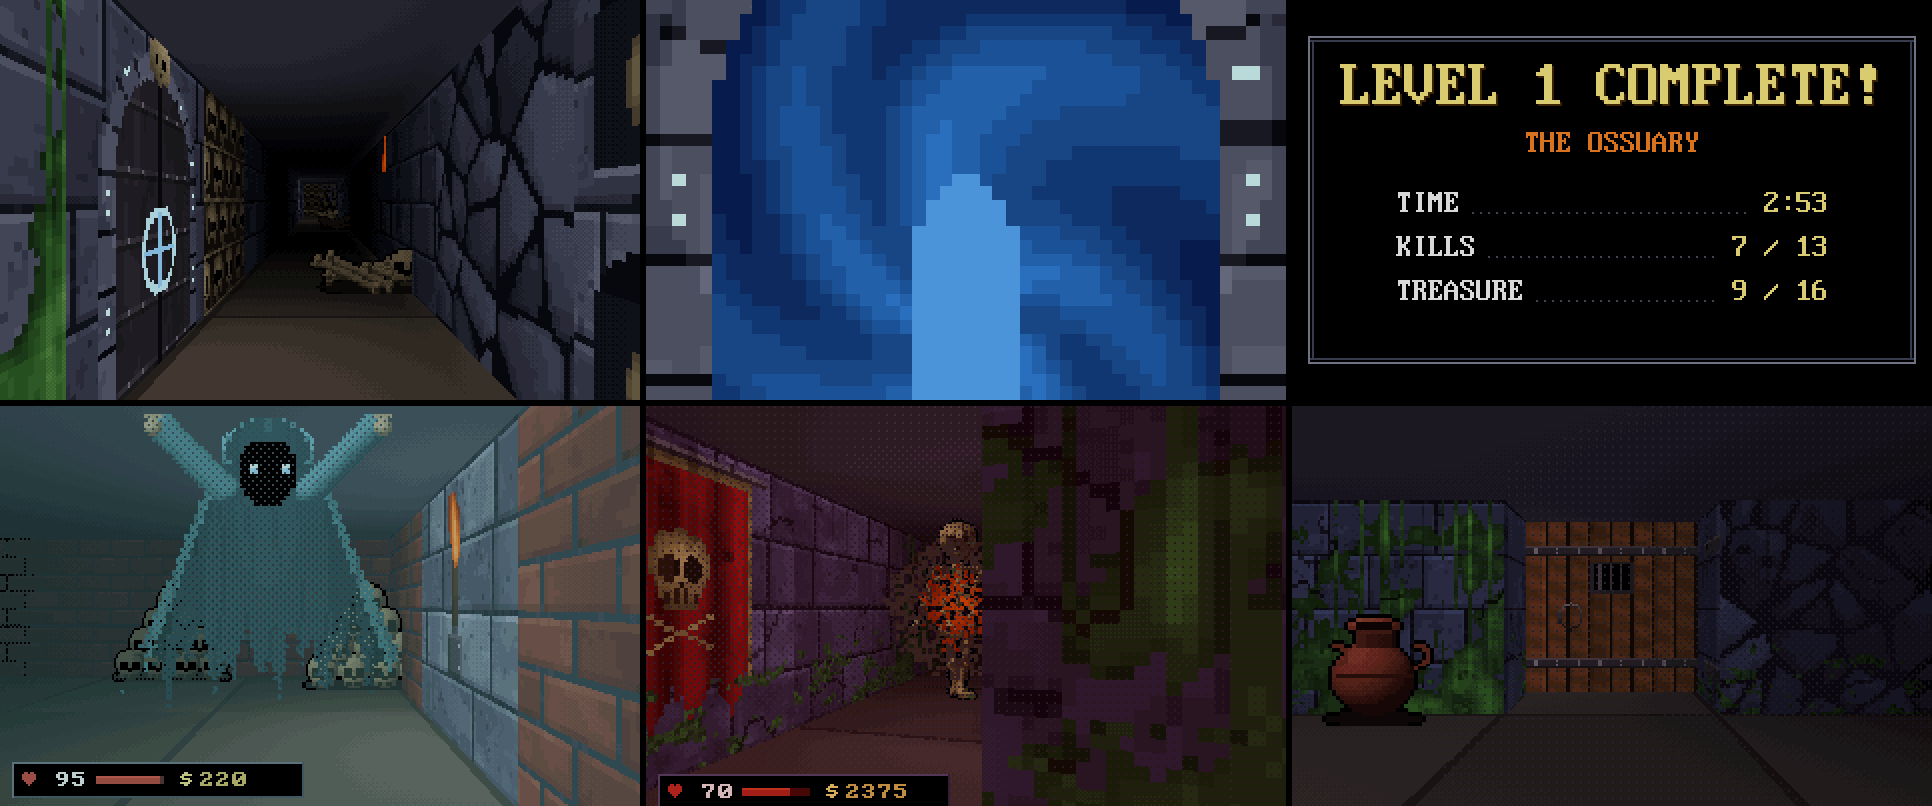
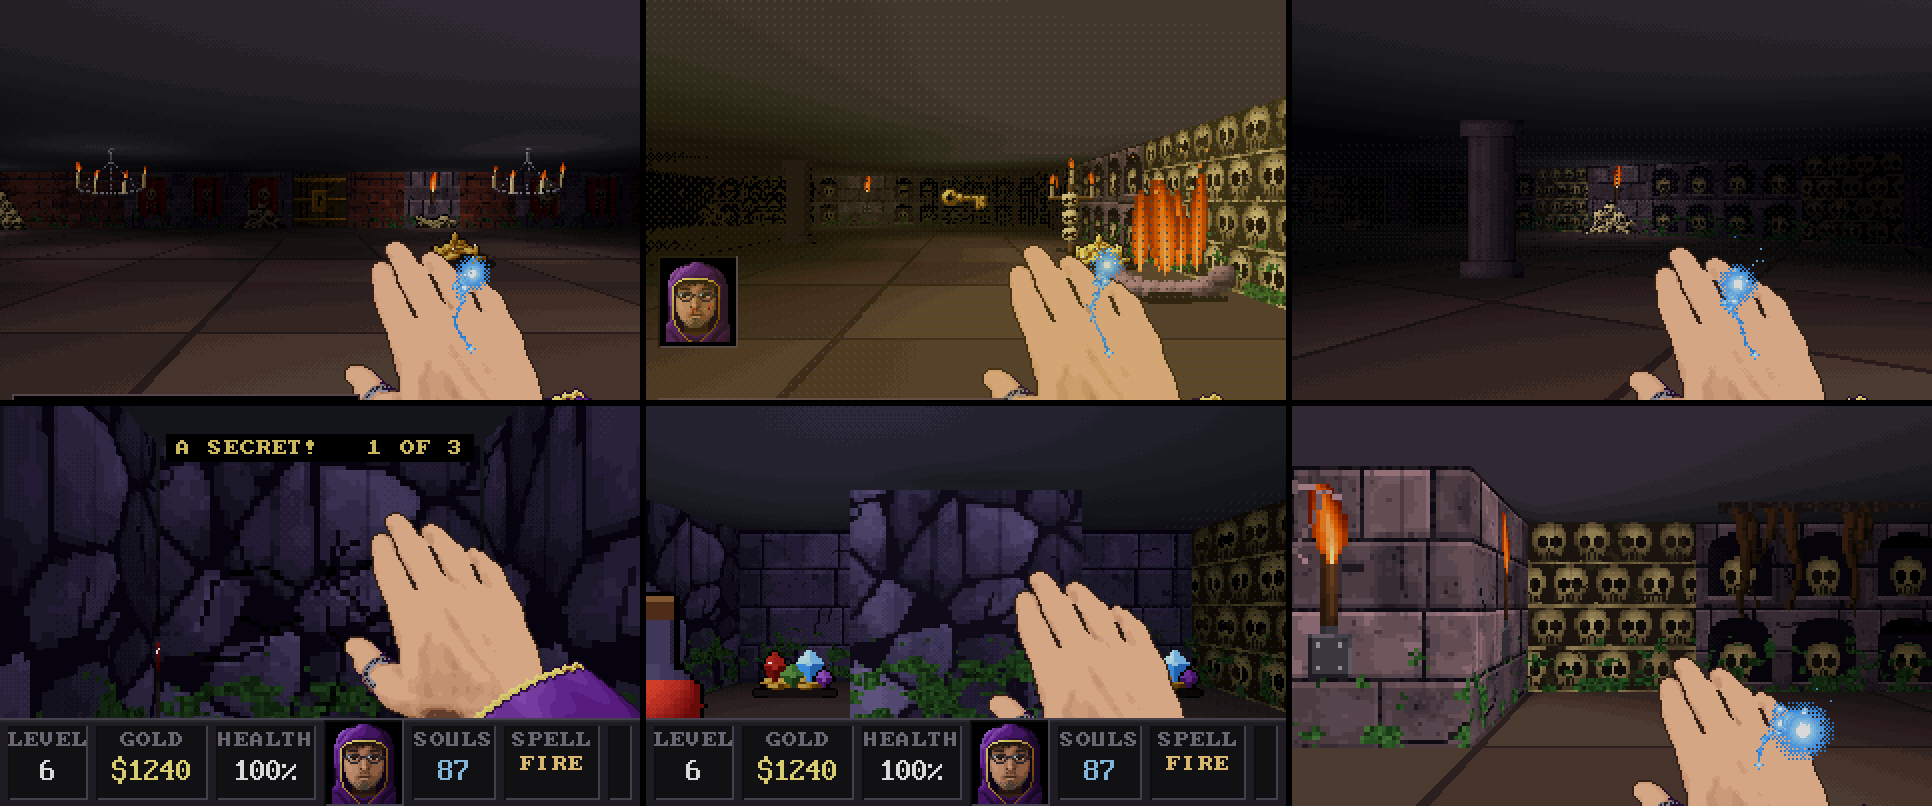
Release 1.0.0b2: the wider crypt, secrets, the wisp and save graves
The page and release notes describe the new crypt, the secrets, the
will-o'-wisp and the graves at Esc (the question there now offers all
five answers, as the game does). The beta status says which of it has
been tested by hand and which only by the harness and under Wine. The
crypt preview shows the new halls, a secret wall and its closet, and
the wisp.

Claude-Session: https://claude.ai/code/session_01SYqhpdRugsMv7dgewzRu99

diff --git a/site/index.html b/site/index.html
@@ -220,6 +220,7 @@
   .quit button:focus-visible { outline: 2px solid var(--gold); outline-offset: 0; }
   @media (max-width: 560px) { .quit button { font-size: 16px; padding: 8px 26px; } }
   .quit .q-note { font-family: var(--font-bios); font-size: 16px; color: var(--gold); min-height: 24px; letter-spacing: .02em; }
+  .quit .q-rule { width: 70%; height: 0; margin: 6px 0; border-top: 2px solid var(--stone-mid); }
   @media (prefers-reduced-motion: no-preference) {
     .quit button[aria-pressed="true"]::before, .quit button[aria-pressed="true"]::after { animation: flicker .2s steps(1) infinite; }
   }
@@ -308,7 +309,7 @@ C:\&gt;<span id="cmd">HAUNTED.EXE</span><span class="cursor"></span></pre>
         <img src="img/catacomb_fight.png" width="320" height="200" alt="CATACOMB: a fireball strikes a shield-bearing skeleton in a torch-lit hall while a hooded wraith looms to the right; the caster's hand is raised in the foreground beside a pile of skulls">
         <h3>CATACOMB</h3>
         <p class="spec">Mode 13h, 320&times;200, 256 colours</p>
-        <p>A Catacomb 3-D style crawl through crypts generated for each level. The caster buys from the merchant, a cat on a treasure chest, then fights skeletons, shield-bearers, wall skulls, spiders, bats and wraiths with nine attack spells and nine runes, opening colour-coded vaults on the way to a rune-sealed exit. Every level is older and harder than the last.</p>
+        <p>A Catacomb 3-D style crawl through crypts generated for each level: halls two and three cells wide, big chambers and colonnades, hung with chains, hooks, gibbet cages and chandeliers, with graveyards, fire pits and lit totems. The caster buys from the merchant, a cat on a treasure chest, then fights skeletons, shield-bearers, wall skulls, spiders, bats and wraiths with nine attack spells and nine runes, opening colour-coded vaults and hidden walls on the way to a rune-sealed exit. Every level is older and harder than the last.</p>
       </div>
     </div>
   </section>
@@ -324,13 +325,15 @@ C:\&gt;<span id="cmd">HAUNTED.EXE</span><span class="cursor"></span></pre>
           <tr><td class="keys"><kbd>MOUSE</kbd></td><td>Turn, the way Doom does. There is no looking up or down.</td></tr>
           <tr><td class="keys"><kbd>CLICK</kbd><kbd>CTRL</kbd></td><td>Cast the spell in hand where you look. Lightning and Soul Drain catch the nearest creature near the middle of the view.</td></tr>
           <tr><td class="keys"><kbd>1</kbd>&ndash;<kbd>9</kbd></td><td>Choose a spell you own: Fire Bolt, Frost Shard, Chain Lightning, Bone Spear, Soul Drain, Hellfire, Seeker Wisps, Rapid Sparks, BFS9000. The wheel works too.</td></tr>
-          <tr><td class="keys"><kbd>E</kbd><kbd>SPACE</kbd></td><td>Open the door ahead, unlock a vault with its key, step through the exit runes, or buy from the merchant.</td></tr>
+          <tr><td class="keys"><kbd>E</kbd><kbd>SPACE</kbd></td><td>Open the door ahead, unlock a vault with its key, press a cracked wall, step through the exit runes, or buy from the merchant.</td></tr>
           <tr><td class="keys"><kbd>TAB</kbd></td><td>Your wardrobe and spellbook. W and S pick a slot, A and D change what you wear there.</td></tr>
           <tr><td class="keys"><kbd>ESC</kbd></td><td>Ask to leave. The crypt will argue.</td></tr>
         </tbody>
       </table>
     </div>
     <p>Your defensive runes still fire on their own, as quickly and as fallibly as they do for the autopilot. Everything you buy stays in your wardrobe, and the Wolfenstein status bar stays up while you play.</p>
+    <p><strong>Secrets.</strong> Every level hides one to three walls that give: one on the first two levels, two from level 3 and three from level 6. They look like plain stone until you are a step or two away, when cracks show in them. Press <kbd>E</kbd> and the wall grinds back into a hidden closet. Inside is treasure and often a potion, never a key, and none of it counts towards the level's treasure, so whatever you find is extra. The tally at the end of the level counts the secrets you found.</p>
+    <p><strong>The will-o'-wisp.</strong> Take ten souls on a level and one kindles on the back of your hand. Its body leans the way out, along the route you would walk, held to your hand by its tail, and it lights the crypt a few steps around you. If the exit is in a locked vault, it leads you to the key first. It goes out when you leave the level.</p>
 
     <div class="quit" id="quit" role="group" aria-labelledby="q-title">
       <p class="q-title" id="q-title">LEAVE THE CRYPT?</p>
@@ -339,6 +342,9 @@ C:\&gt;<span id="cmd">HAUNTED.EXE</span><span class="cursor"></span></pre>
         <button type="button" id="q-flee" aria-pressed="false">FLEE TO THE SURFACE</button>
         <button type="button" id="q-stay" aria-pressed="true">STAY IN THE DARK</button>
         <button type="button" id="q-sleep" aria-pressed="false">SLEEPWALK</button>
+        <span class="q-rule" aria-hidden="true"></span>
+        <button type="button" id="q-carve" aria-pressed="false">CARVE A GRAVESTONE</button>
+        <button type="button" id="q-rise" aria-pressed="false">RISE FROM A GRAVE</button>
       </div>
       <p class="q-note" id="q-note">BACK TO THE CRYPT</p>
     </div>
@@ -346,6 +352,8 @@ C:\&gt;<span id="cmd">HAUNTED.EXE</span><span class="cursor"></span></pre>
       <li><strong>Flee to the surface</strong> ends the screensaver and saves your level, health, gold, souls and gear. Next time you start at the beginning of that level, and the next session starts from it whether you play or not.</li>
       <li><strong>Stay in the dark</strong> closes the question. It's the default, so a stray Enter keeps you playing.</li>
       <li><strong>Sleepwalk</strong> hands the crypt back to the autopilot, which walks on from where you stood.</li>
+      <li><strong>Carve a gravestone</strong> saves the run in one of three graves. Carving over a used grave asks twice.</li>
+      <li><strong>Rise from a grave</strong> loads one, from the beginning of its level, and the controls stay yours.</li>
     </ul>
   </section>
 
@@ -360,8 +368,8 @@ C:\&gt;<span id="cmd">HAUNTED.EXE</span><span class="cursor"></span></pre>
       <figcaption>The merchant, a wall skull, a spider, the BFS9000 and Hellfire.</figcaption>
     </figure>
     <figure>
-      <img src="img/preview_catacomb_crypt.png" loading="lazy" width="1932" height="806" alt="Six frames from CATACOMB: the rune-sealed exit, the exit opened, the LEVEL 1 COMPLETE tally, a wraith rearing back, a violet deeper corridor and a mossy room">
-      <figcaption>The exit, the tally, a wraith and the deeper levels.</figcaption>
+      <img src="img/preview_catacomb_crypt.png" loading="lazy" width="1932" height="806" alt="Six frames from CATACOMB: a big chamber hung with candle chandeliers and banners; a hall with a fire pit beside a skull wall and a key glinting in the distance; a wide hall with a stone pillar; the hand pressing a cracked wall with A SECRET! 1 OF 3 above it; the closet behind it with gems and a potion; and the will-o'-wisp glowing blue on the back of the hand in an ossuary hall">
+      <figcaption>Big chambers and wide halls, a secret wall and its closet, and the wisp.</figcaption>
     </figure>
     <figure>
       <img src="img/preview_haunt_text.png" loading="lazy" width="2898" height="806" alt="Eight frames of haunted DOS programs: EDIT, DEFRAG, the BBS, the virus scan, MSD, SETUP, QBasic and the file manager">
@@ -395,7 +403,7 @@ C:\&gt;<span id="cmd">HAUNTED.EXE</span><span class="cursor"></span></pre>
 
   <section aria-labelledby="source">
     <h2 id="source">Built in the open</h2>
-    <p>Every release is built from this repository by GitHub Actions. The MinGW-w64 cross-compiler builds the program, a headless harness renders both scenes and plays a scripted session, and the files go up with their SHA-256 checksums. It's about 15,000 lines of C with no dependencies beyond the standard Windows DLLs.</p>
+    <p>Every release is built from this repository by GitHub Actions. The MinGW-w64 cross-compiler builds the program, a headless harness renders both scenes and plays a scripted session, and the files go up with their SHA-256 checksums. It's about 17,000 lines of C with no dependencies beyond the standard Windows DLLs.</p>
 <pre class="code">sudo apt install gcc-mingw-w64-x86-64 zlib1g-dev
 make zip      # dist/HAUNTED.scr, dist/HAUNTED.EXE and the zip
 make smoke    # both scenes and a scripted player in the test harness</pre>
@@ -409,13 +417,14 @@ make smoke    # both scenes and a scripted player in the test harness</pre>
 
   <section aria-labelledby="beta">
     <h2 id="beta">Beta status</h2>
-    <p>This is the first public build. It has been played by hand on the author's own Windows PC in a few different configurations, on top of the automated tests. Here is what has been tested, and how.</p>
+    <p>This is the second beta. The first was played by hand on the author's own Windows PC in a few different configurations, on top of the automated tests; this one adds a wider crypt, secrets, the will-o'-wisp and three save graves, which so far have been tested only by the harness and under Wine. Here is what has been tested, and how.</p>
     <div class="scroll">
       <table>
         <thead><tr><th>Area</th><th>Evidence</th><th>Confidence</th></tr></thead>
         <tbody>
           <tr><td>Playing</td><td>Scripted sessions in the harness: taking over from both scenes, shopping, every spell, the wardrobe, the question at Esc, dying, the exit, saving and loading. 170 seconds under AddressSanitizer and UBSan, clean.</td><td><span class="tag ok">HIGH</span></td></tr>
-          <tr><td>The autopilot</td><td>Six 50-minute simulations: every run reached level 8 to 10 and left every level by its exit.</td><td><span class="tag ok">HIGH</span></td></tr>
+          <tr><td>The new crypt</td><td>Every lane of every generated level checked for reach. A test player that only walks where the wisp leans cleared 24 of 24 levels, fetching vault keys where the exit needed them. Pressing a secret wall, walking into its closet and taking the loot, carving and rising from graves (also under Wine, into the registry). About 30 minutes under AddressSanitizer and UBSan, clean. Not yet played by hand on Windows.</td><td><span class="tag mid">MEDIUM</span></td></tr>
+          <tr><td>The autopilot</td><td>Eight 50-minute simulations in the wider crypt: runs reached level 6 to 9, left every level by its exit and found two to six secrets. It dies a little more often than in the narrower crypt of the first beta: four runs never died, two died once, one twice and one five times.</td><td><span class="tag ok">HIGH</span></td></tr>
           <tr><td>Input on Windows</td><td>Played by hand on real Windows: holding H, the keys, raw mouse turning and keeping the mouse inside the window all work flawlessly. Also driven under Wine with real key presses, including saving to the registry and loading it back.</td><td><span class="tag ok">HIGH</span></td></tr>
           <tr><td>Mouse feel</td><td>Tried by hand: the fixed speed of 0.0015 radians per count feels spot-on.</td><td><span class="tag ok">HIGH</span></td></tr>
           <tr><td>Sound</td><td>Heard through real speakers, where the music and effects play as intended. Also analysed offline for clipping and levels.</td><td><span class="tag ok">HIGH</span></td></tr>
@@ -472,9 +481,10 @@ make smoke    # both scenes and a scripted player in the test harness</pre>
     "REAL WIZARDS DO NOT HAVE MEETINGS.",
     "87 SOULS. SO CLOSE TO SOMETHING WONDERFUL."
   ];
-  var NOTES = { "q-flee": "YOUR LEVEL, GOLD AND GEAR ARE KEPT", "q-stay": "BACK TO THE CRYPT", "q-sleep": "THE AUTOPILOT WALKS ON WITHOUT YOU" };
+  var NOTES = { "q-flee": "YOUR LEVEL, GOLD AND GEAR ARE KEPT", "q-stay": "BACK TO THE CRYPT", "q-sleep": "THE AUTOPILOT WALKS ON WITHOUT YOU",
+                "q-carve": "THREE GRAVES. CHOOSE ONE.", "q-rise": "WHICH GRAVE WILL YOU LEAVE?" };
   var line = document.getElementById("q-line"), note = document.getElementById("q-note");
-  var opts = ["q-flee", "q-stay", "q-sleep"].map(function (id) { return document.getElementById(id); });
+  var opts = ["q-flee", "q-stay", "q-sleep", "q-carve", "q-rise"].map(function (id) { return document.getElementById(id); });
   var li = Math.floor(Math.random() * LINES.length), walker = null;
   function show() { line.textContent = LINES[li % LINES.length]; }
   function select(b) {
@@ -497,6 +507,10 @@ make smoke    # both scenes and a scripted player in the test harness</pre>
         document.getElementById("download").scrollIntoView({ behavior: still ? "auto" : "smooth", block: "center" });
       } else if (b.id === "q-stay") {
         li++; show();
+      } else if (b.id === "q-carve") {
+        line.textContent = "HERE LIES A CASTER. NOT FOR LONG.";
+      } else if (b.id === "q-rise") {
+        line.textContent = "THE EARTH GIVES YOU BACK. IT ALWAYS DOES.";
       } else {
         li++; show();
         if (!still) walker = setInterval(function () { li++; show(); }, 4200);

diff --git a/README.md b/README.md
@@ -35,7 +35,7 @@ Two scenes are included. They alternate every few minutes (configurable) with a 
 | **CATACOMB** | mode 13h, 320x200, 256 colours | A Catacomb 3-D / Wolfenstein 3-D style crypt crawl on autopilot. Before each level the caster visits the merchant, the owner's cat, draped over a treasure chest, purring, and buys one of three wares with the gold it carries (see below). Each level is generated anew: main halls two and three cells wide, big chambers, colonnades and narrow side passages, with skull walls, niches, banners, moss and sliding doors, walked with quick 90-degree turns. The crypt is dressed: chains and meat hooks swaying from the ceiling, gibbet cages (some still occupied), candle chandeliers, roots and cobweb curtains, bone piles, graveyards of tombstones, fire pits and lit totems. Every level hides one to three secrets behind cracked walls (see below). Locked vaults are colour-coded (gold from level 1, silver from 3, crimson from 5), each with its own key and a richer hoard, and the deeper ones are guarded. The autopilot remembers treasure it has seen and goes back for it, and leaves through a rune-sealed exit for a Wolfenstein-style tally. Skeletons throw bones; from level 2 skulls set in the walls you walk towards scream and gather a fireball for three seconds; from level 3 shield-bearing skeletons close in with swords; from level 4 spiders wait in corner webs, only their red eyes showing, and their bite poisons and slows. Bats bite, and wraiths loom and flee. Every level is older and harder than the one before, though each death on a level makes its creatures hit a little softer on the next try (by up to 45%, until it is cleared). Your face, Wolfenstein-style, pops up when you are hurt. Hold H for three seconds to play it yourself (see below). |
 
 ![CATACOMB: the merchant, wall skulls, spiders, shields and spells](docs/preview_catacomb.png)
-![CATACOMB: the exit, the tally, a wraith and the deeper levels](docs/preview_catacomb_crypt.png)
+![CATACOMB: big chambers and wide halls, a secret wall and its closet, and the wisp](docs/preview_catacomb_crypt.png)
 ![CATACOMB played by hand: holding H, the controls, shopping, casting, the wardrobe and the question at Esc](docs/preview_catacomb_play.png)
 ![HAUNT.EXE: the jack-o'-lantern and the skull](docs/preview_haunt_art.png)
 ![HAUNT.EXE: the haunted programs](docs/preview_haunt_text.png)

diff --git a/.github/release-notes.md b/.github/release-notes.md
@@ -1,6 +1,15 @@
-The first public build of **HAUNTED.EXE**, a Halloween screensaver for Windows in real VGA modes: a possessed 486 PC (HAUNT.EXE) and a Wolfenstein-style crypt crawl (CATACOMB) that you can take over and play by holding **H** for three seconds.
+The second beta of **HAUNTED.EXE**, a Halloween screensaver for Windows in real VGA modes: a possessed 486 PC (HAUNT.EXE) and a Wolfenstein-style crypt crawl (CATACOMB) that you can take over and play by holding **H** for three seconds.
 
-This is a beta. Besides the automated tests and runs under Wine, it has been played by hand on the author's own Windows PC in a few different configurations; other PCs and graphics cards haven't been tried yet. If something goes wrong on your machine, please [open an issue](https://github.com/ASPDesignLabs/HAUNTED.EXE/issues) with your Windows version and graphics card.
+### New in this beta
+
+- **A wider crypt.** Main halls two and three cells wide, big chambers and colonnades, with a few narrow side passages.
+- **Set dressing.** Swaying chains and meat hooks, gibbet cages, candle chandeliers, roots and cobweb curtains, graveyards of tombstones, and more light: fire pits, lit totems and a light in every room.
+- **Secrets.** One to three walls a level give when pressed (E or Space). Their cracks show only when you are close. Behind each is a closet of treasure and often a potion, never a key, and it doesn't count towards the level's treasure. The tally counts the secrets found.
+- **The will-o'-wisp.** Take ten souls on a level and it kindles on the back of your hand, leaning the way out (by way of a vault key if the exit needs one) and lighting the crypt around you. It goes out with the level.
+- **Three save graves** in the Esc menu: carve a gravestone to save the run, rise from one to load it.
+- **Balance for the open halls.** Bones thrown from far across a hall fly wider, and each death on a level makes its creatures hit a little softer until it is cleared.
+
+This is still a beta. The first beta was played by hand on the author's own Windows PC in a few different configurations; the new crypt, the secrets, the wisp and the graves have so far been tested by the harness and under Wine. If something goes wrong on your machine, please [open an issue](https://github.com/ASPDesignLabs/HAUNTED.EXE/issues) with your Windows version and graphics card.
 
 ### Files
 
